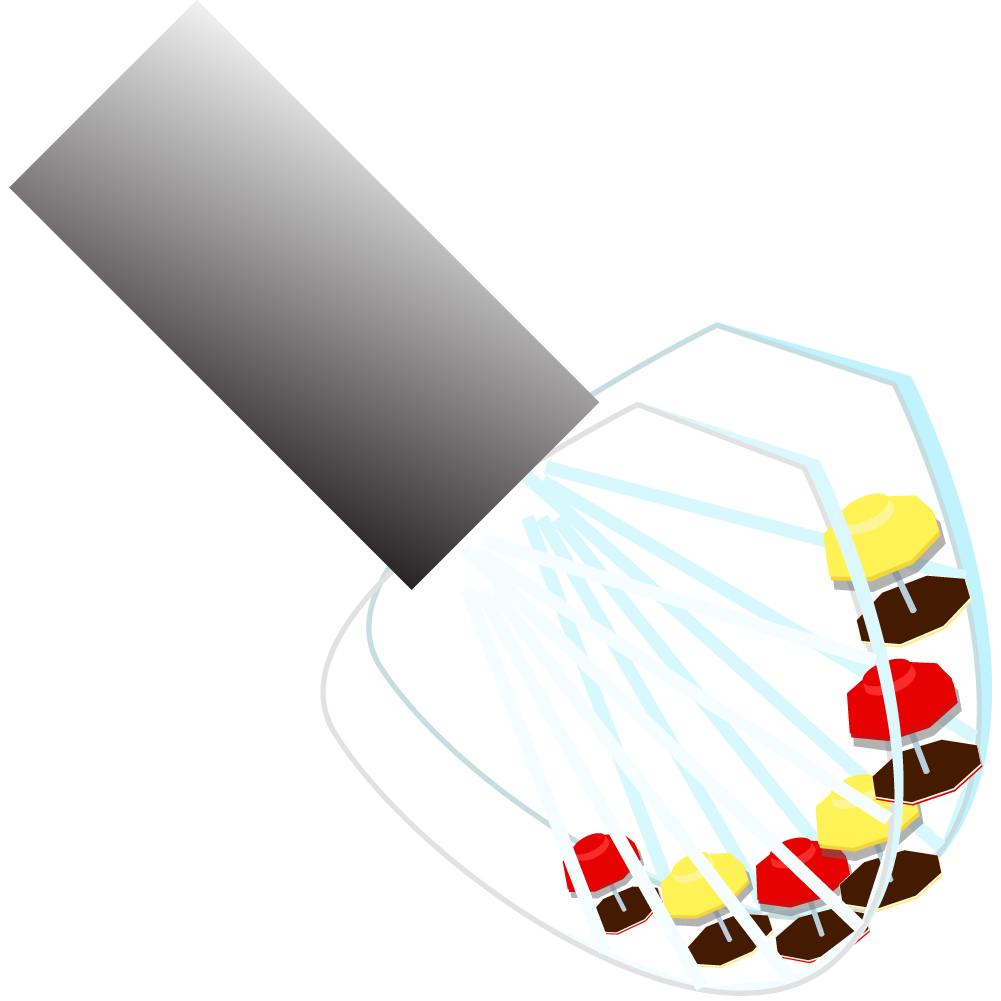
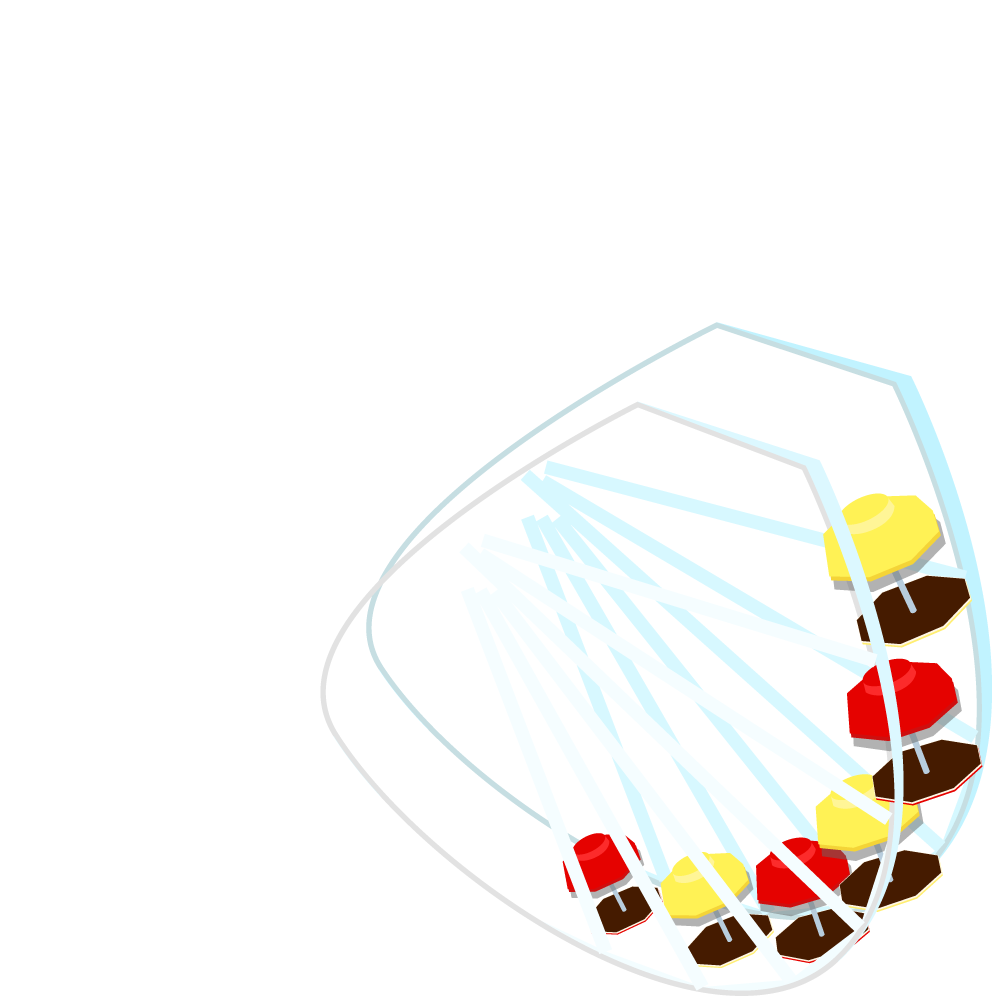
Shifting Tuna cans and cars

Changed region(s): [[0.0, 0.0, 0.5884, 0.5884]]

diff --git a/assets/js/cog.js b/assets/js/cog.js
@@ -19,9 +19,20 @@ $(document).ready(function(){
     //  console.log("Leftside");
       //Determine the amount to rotate by.
       // console.log(1+bodyHeight/980);
-      if(window.scrollY >= (bodyHeight*.75*page)-210){
-        page += 1;
+
+      console.log("Page is " + page);
+      if(window.scrollY > (bodyHeight*.75)-210){
+        page = 1;
         $('#click1').show();
+        car.src = "assets/images/CaliCar.png";
+      }
+      if (window.scrollY > (2*bodyHeight*.75)-150) {
+        page = 2;
+        $('#click1').show();
+        car.src = "assets/images/ShareCar.png";
+        // $("#click1").css({
+        //   "background-color": "blue",
+        // });
       }
       if(window.scrollY >= bodyHeight*.75){
         deg = -(window.scrollY-bodyHeight*0.75)/(1+bodyHeight/1000)*(360/bodyHeight);

diff --git a/index.html b/index.html
@@ -72,7 +72,9 @@
         <img class="location" src="assets/images/SouthUtah.png" alt="">
         <img class="location sign" style="margin-top: -700px" src="assets/images/SouthUtah-Sign.png" alt="">
 
+
         <div class="play" id="click1">
+          <img class="car" name="car" src="assets/images/CaliCar.png" alt="">
           <!-- <button type="button" id='click1'>Play1</button> -->
           <!-- <button type="button" id='click1'>Play2</button> -->
         </div>

diff --git a/assets/css/custom.css b/assets/css/custom.css
@@ -46,11 +46,15 @@ body {
   left: 50%;
   width: 120px;
   height: 120px;
-  background-color: white;
+  /*background-color: white;*/
   transform: translateX(-50%);
   border-radius: 60px;
   z-index: 1;
   cursor: pointer;
+}
+
+.car{
+  width: 100%;
 }
 
 #navbar{
@@ -77,7 +81,7 @@ body {
 
 .location {
   position: relative;
-  margin: 0px 200px 0px 200px;
+  margin: 0px 100px 0px 100px;
   width: 482px;
   pointer-events: none;
 }
